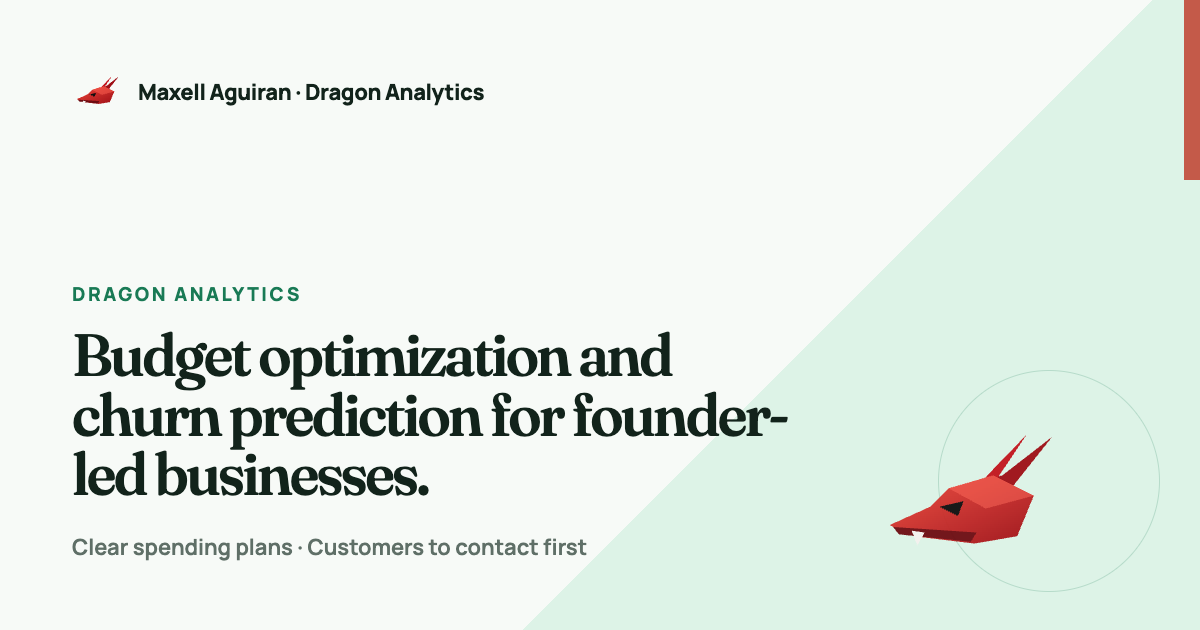
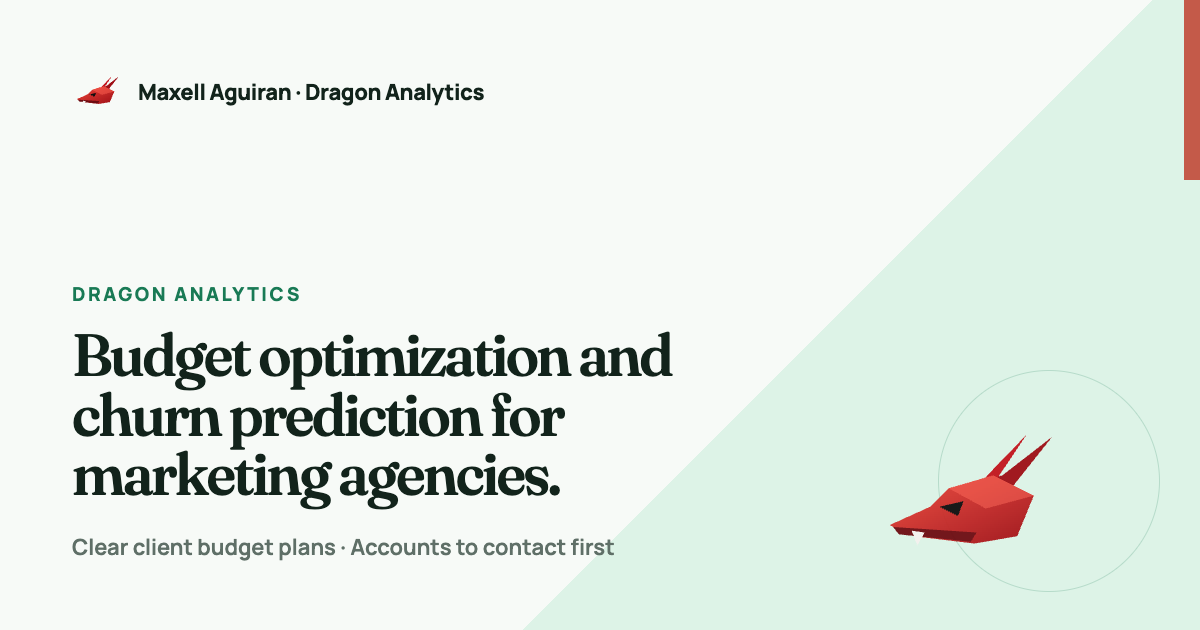
Target marketing agencies in homepage proposition

Changed region(s): [[0.0617, 0.6937, 0.4625, 0.8143], [0.1233, 0.8444, 0.5242, 0.9048], [0.4625, 0.6032, 0.6475, 0.6937]]

diff --git a/index.html b/index.html
@@ -3,22 +3,22 @@
 <head>
   <meta charset="utf-8">
   <meta name="viewport" content="width=device-width,initial-scale=1">
-  <title>Maxell Aguiran | Budget Optimization &amp; Churn Prediction</title>
-  <meta name="description" content="Budget optimization and churn prediction for founder-led businesses. Get a clear spending plan or ranked customer call list, plus the checks and files needed to use it again.">
+  <title>Agency Budget Optimization &amp; Churn Prediction | Maxell Aguiran</title>
+  <meta name="description" content="I help marketing agencies decide where client marketing budgets should go and which client accounts may leave. Get a clear budget plan or a list of accounts to contact first.">
   <link rel="canonical" href="https://maxellaguiran.github.io/">
   <link rel="icon" type="image/svg+xml" href="assets/favicon.svg">
   <meta name="theme-color" content="#F7FAF7">
   <meta property="og:type" content="profile">
   <meta property="og:site_name" content="Maxell Aguiran">
-  <meta property="og:title" content="Budget optimization and churn prediction for founder-led businesses.">
-  <meta property="og:description" content="Decide how to split your marketing budget and which customers to contact first.">
+  <meta property="og:title" content="Budget optimization and churn prediction for marketing agencies.">
+  <meta property="og:description" content="Clear client budget plans and lists of accounts to contact first.">
   <meta property="og:url" content="https://maxellaguiran.github.io/">
   <meta property="og:image" content="https://maxellaguiran.github.io/assets/social/home.png">
   <meta property="og:image:width" content="1200">
   <meta property="og:image:height" content="630">
   <meta name="twitter:card" content="summary_large_image">
-  <meta name="twitter:title" content="Budget optimization and churn prediction for founder-led businesses.">
-  <meta name="twitter:description" content="Clear spending plans, ranked customer call lists, and the checks behind them.">
+  <meta name="twitter:title" content="Budget optimization and churn prediction for marketing agencies.">
+  <meta name="twitter:description" content="Clear client budget plans and lists of accounts to contact first.">
   <meta name="twitter:image" content="https://maxellaguiran.github.io/assets/social/home.png">
   <link rel="preload" href="assets/fonts/manrope-latin-variable.woff2" as="font" type="font/woff2" crossorigin>
   <link rel="preload" href="assets/fonts/fraunces-latin-variable.woff2" as="font" type="font/woff2" crossorigin>
@@ -29,8 +29,8 @@
     "@type": "ProfilePage",
     "@id": "https://maxellaguiran.github.io/#profile",
     "url": "https://maxellaguiran.github.io/",
-    "name": "Maxell Aguiran | Budget Optimization & Churn Prediction",
-    "description": "Through Dragon Analytics, Maxell Aguiran helps founder-led businesses decide how to split marketing budgets and which customers to contact first.",
+    "name": "Agency Budget Optimization & Churn Prediction | Maxell Aguiran",
+    "description": "Through Dragon Analytics, Maxell Aguiran helps marketing agencies decide where client marketing budgets should go and which client accounts may leave.",
     "mainEntity": {
       "@type": "Person",
       "@id": "https://maxellaguiran.github.io/#maxell-aguiran",
@@ -55,10 +55,10 @@
     <section class="hero founder-hero">
       <div class="hero-copy">
         <div class="eyebrow">Dragon Analytics</div>
-        <h1>Budget optimization and churn prediction for founder-led businesses.</h1>
-        <p>I help growing businesses decide how to split their marketing budget and which customers are most likely to leave. You get a clear spending plan or a ranked call list, plus the checks behind it and everything needed to run it again.</p>
-        <div class="hero-actions"><a class="button" href="#proof">See budget optimization example</a><a class="button secondary" href="#contact">Discuss your decision</a></div>
-        <div class="hero-proofline"><span>Clear spending plans</span><span>Customers to contact first</span><span>No stronger result, no recommendation</span></div>
+        <h1>Budget optimization and churn prediction for marketing agencies.</h1>
+        <p>I help marketing agencies decide where client marketing budgets should go and which client accounts may leave. You get a clear budget plan or a list of accounts to contact first.</p>
+        <div class="hero-actions"><a class="button" href="#proof">See the budget example</a><a class="button secondary" href="#contact">Talk about your agency</a></div>
+        <div class="hero-proofline"><span>Clear client budget plans</span><span>Client accounts to contact first</span><span>No stronger result, no recommendation</span></div>
       </div>
       <aside class="decision-brief" aria-label="Flagship case evidence summary" data-case-summary data-state="loading">
         <div class="decision-brief-top"><span>Worked example</span><span>Numbers checked</span></div>
